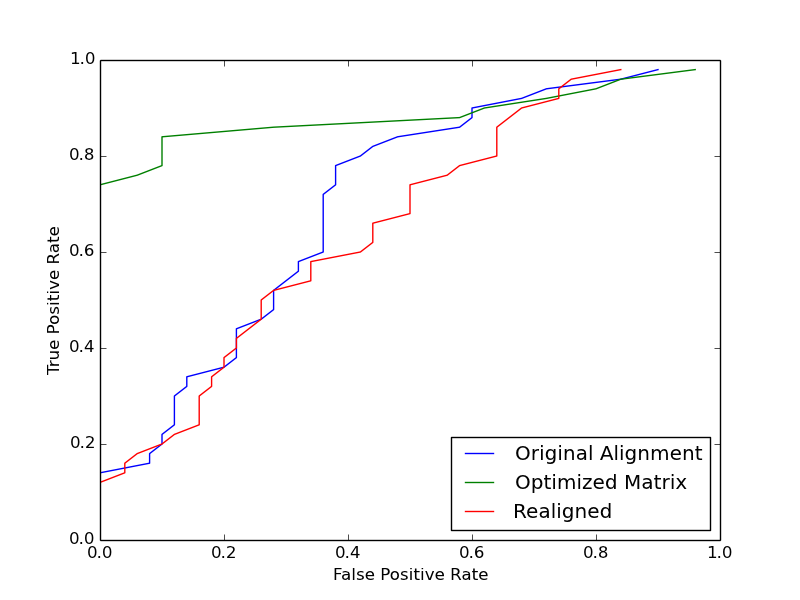
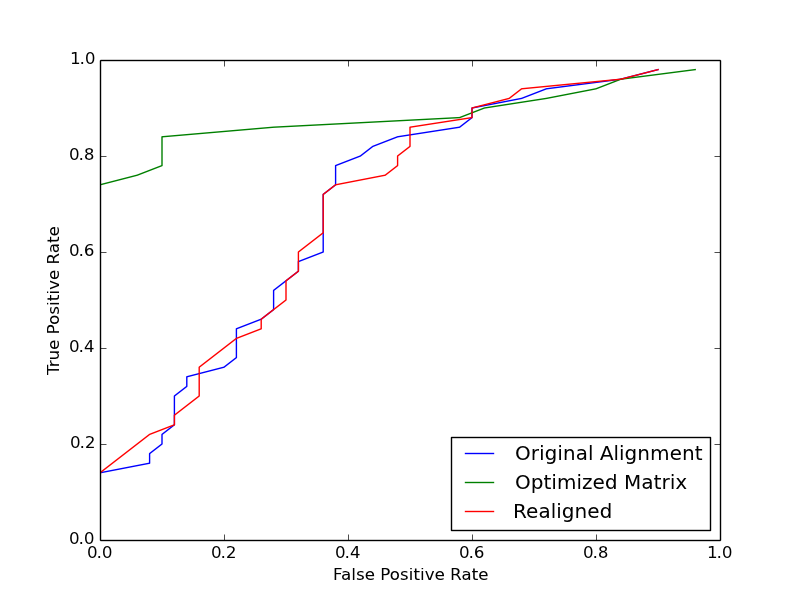
correct MATIO ROC after realignment used the wrong bestmatrix.npy file last time

diff --git a/SmithWaterman/optimize_submatrix.py b/SmithWaterman/optimize_submatrix.py
@@ -133,7 +133,7 @@ def main():
     gap_ext = 3
     
     [sub_Matrixdict, origSubMatrix, AAlist] = subMdict.mk_dict(home+subMatrixFile)
-    '''
+    
     [pos_scores, pos_align_array] = slSW.scores_from_seq_list(home, pos_seq_list_file, sub_Matrixdict, origSubMatrix, gap_init, gap_ext)
     
     np.save(home+'pos_align_array', pos_align_array)
@@ -143,16 +143,16 @@ def main():
     
     np.save(home+'neg_align_array', neg_align_array )
     np.save(home+'neg_scores', neg_scores )
-    '''
+    
     origSubMatrix = generate_newsubMatrix(origSubMatrix, gap_init, gap_ext)
     
-    
+    '''
     #if already saved versions and made no changes to SW_run and seq_list_SW: just load from saved npy files
     neg_align_array=np.load(home+'neg_align_array.npy')
     neg_scores=np.load(home+'neg_scores.npy')
     pos_align_array=np.load(home+'pos_align_array.npy')
     pos_scores=np.load(home+'pos_scores.npy')
-    
+    '''
     obj_func = obj_function(pos_scores, neg_scores)
     print obj_func
     [new_pos_scores, new_neg_scores, posgaps, neggaps] = calc_new_scores(pos_align_array, neg_align_array, origSubMatrix)
@@ -166,16 +166,16 @@ def main():
     [opt_pos_scores, opt_neg_scores, posgaps, neggaps] = calc_new_scores(pos_align_array, neg_align_array, bestMatrix)
     print bestMatrix
     print best_obj_func
-    '''
-    np.save(home+'bestMatrix',bestMatrix)
     
-    np.savetxt(home+'bestMatrix.txt', bestMatrix, fmt ='%+.2d', delimiter = '   ', header = ' A    R    N    D    C    Q    E    G    H    I    L    K    M    F    P    S    T    W    Y    V    B    Z    X    *')
-    '''
+    np.save(home+'bestMatrixMATIO',bestMatrix)
+    
+    np.savetxt(home+'bestMatrixMATIO.txt', bestMatrix, fmt ='%+.2d', delimiter = '   ', header = ' A    R    N    D    C    Q    E    G    H    I    L    K    M    F    P    S    T    W    Y    V    B    Z    X    *')
+    
     #try out new optimized matrix
     
-    optimized_Matrix = np.load(home+'bestMatrix.npy')
+    optimized_Matrix = np.load(home+'bestMatrixMATIO.npy')
     print optimized_Matrix
-    [optimized_subMatrix_dict, newSubMatrix, AAlist] = subMdict.mk_dict_np(home+'bestMatrix.npy', AAlist)
+    [optimized_subMatrix_dict, newSubMatrix, AAlist] = subMdict.mk_dict_np(home+'bestMatrixMATIO.npy', AAlist)
     #print optimized_subMatrix_dict
     #print len(optimized_subMatrix_dict.keys())
     #print np.transpose(optimized_subMatrix_dict.keys())
@@ -199,7 +199,7 @@ def main():
     pylab.legend(loc = 'lower right')
     pylab.ylabel('True Positive Rate')
     pylab.xlabel('False Positive Rate')
-    pylab.savefig('Compare_Optimized_ROC_Realigned.png')
+    pylab.savefig('Compare_Optimized_ROC_Realigned_MATIO.png')
 
 
     
